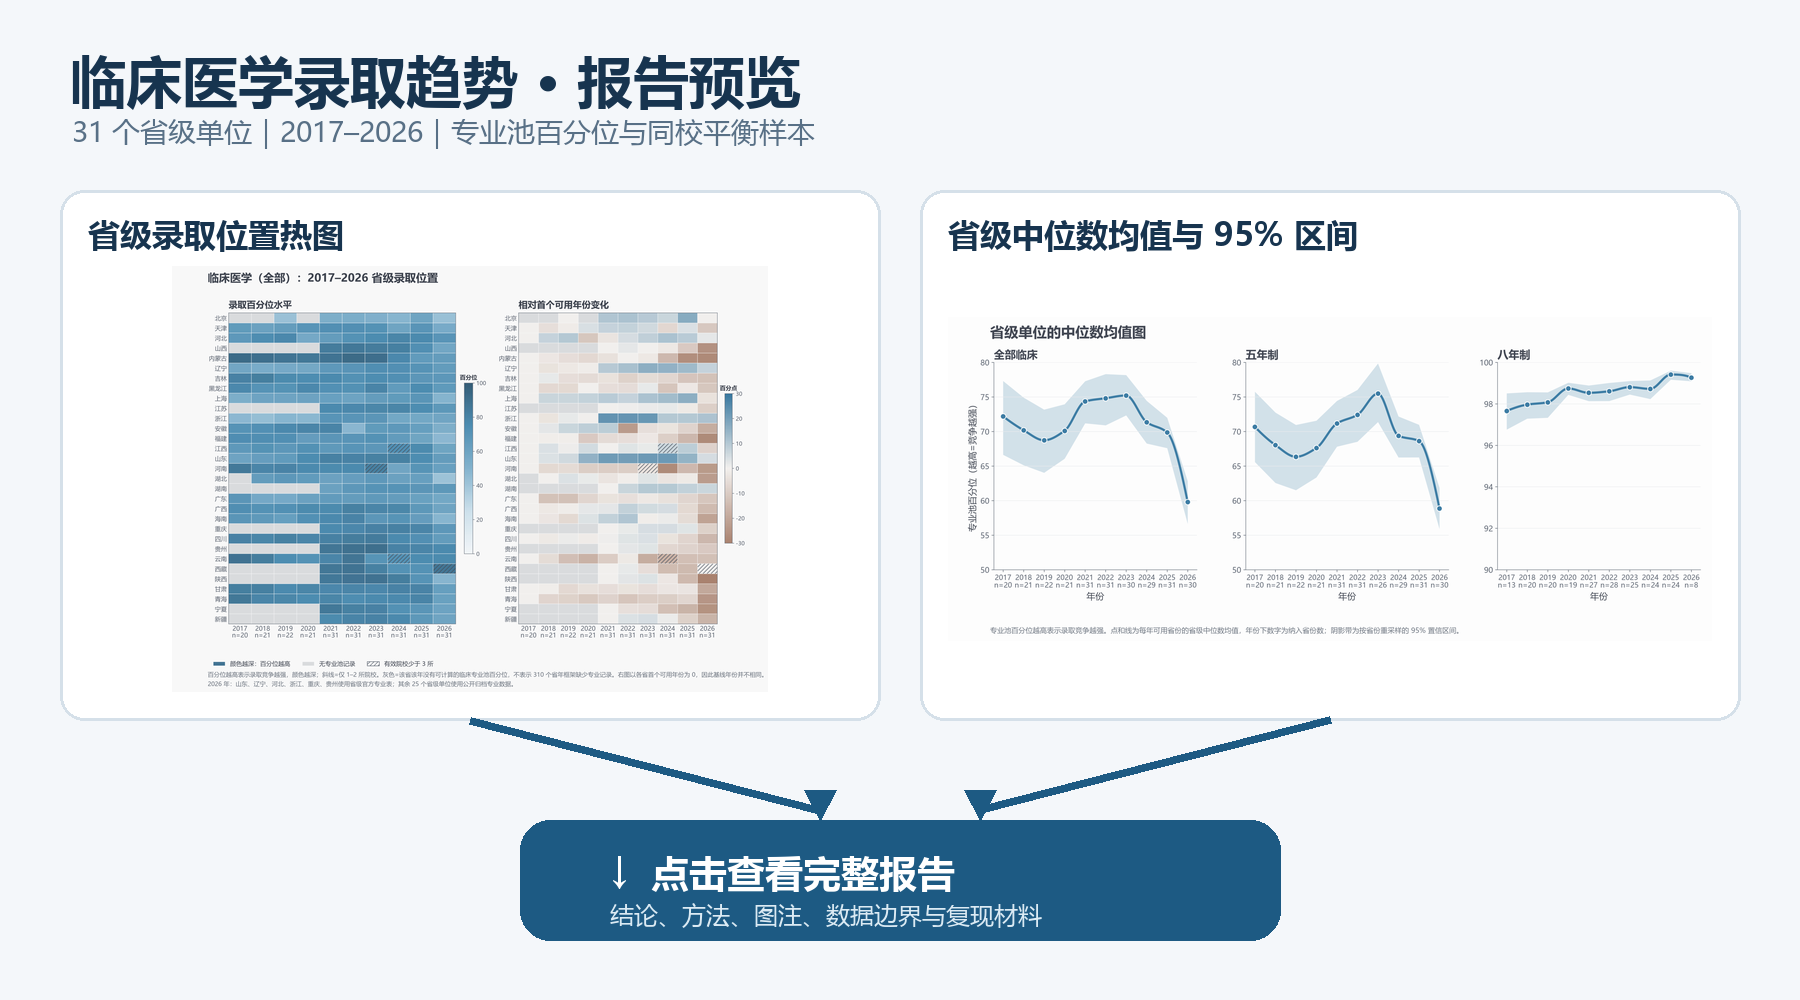
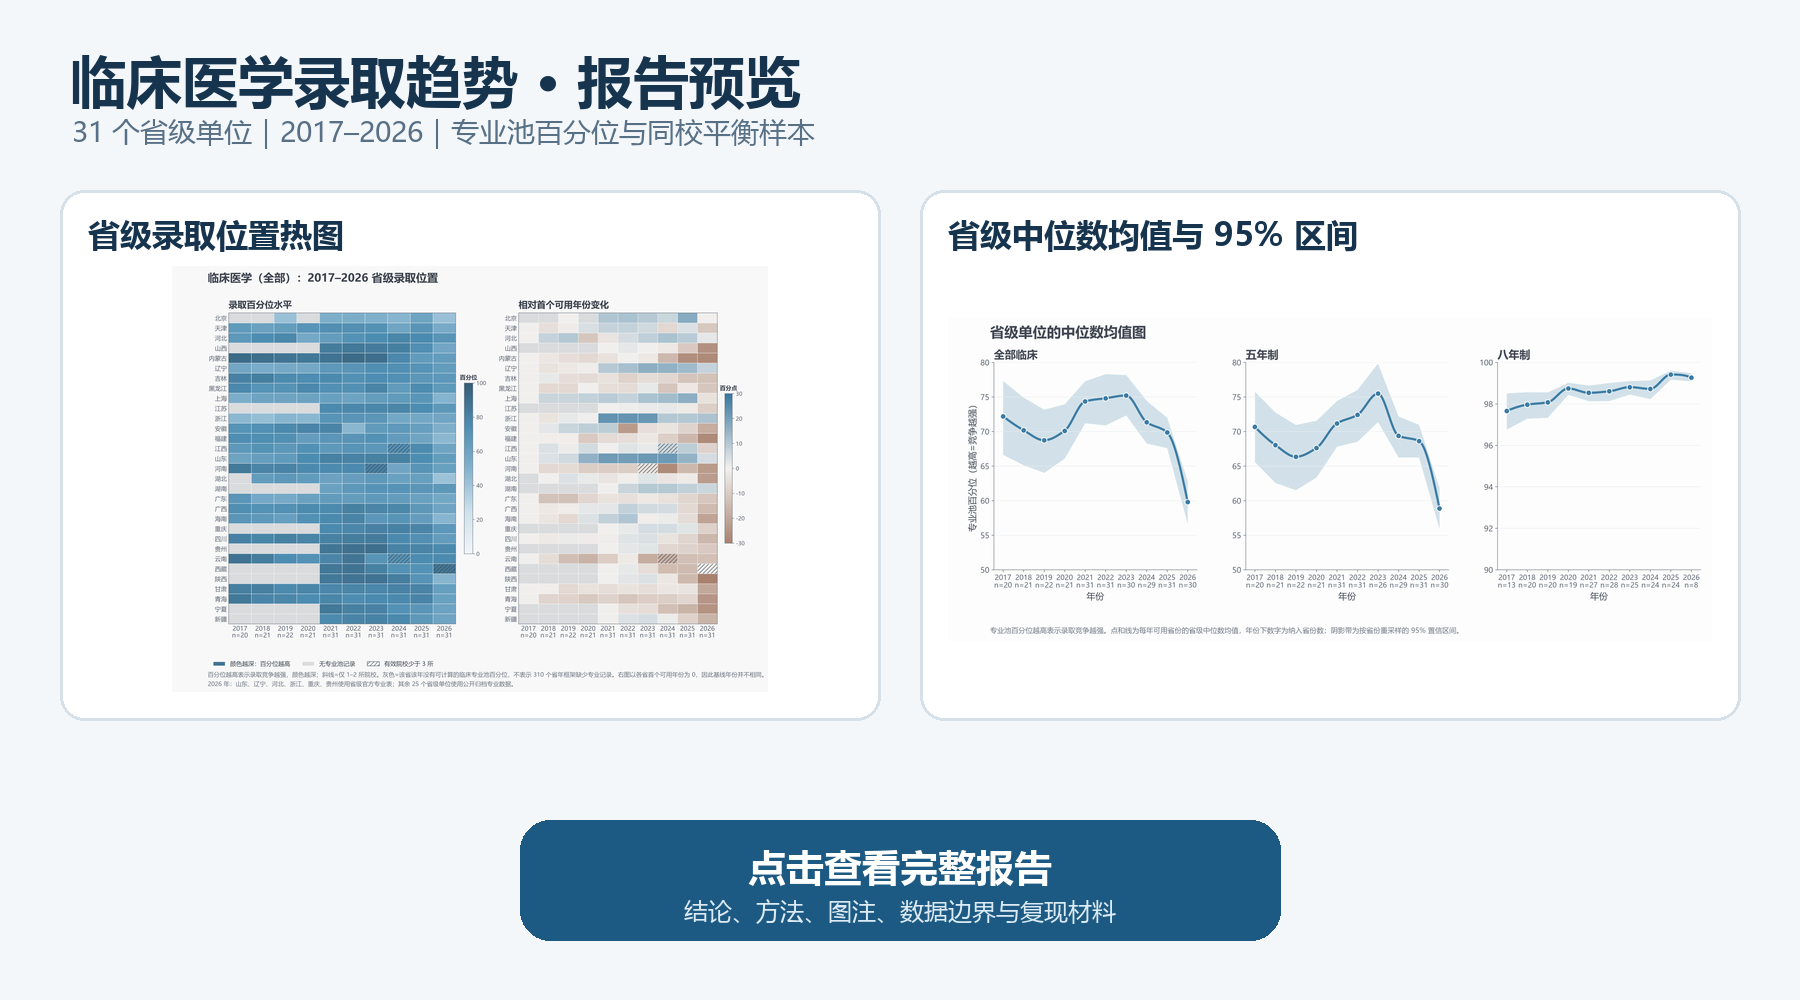
Refine README report preview

diff --git a/scripts/build_readme_preview.py b/scripts/build_readme_preview.py
@@ -54,22 +54,6 @@ def fit_image(image: Image.Image, size: tuple[int, int]) -> Image.Image:
     )
 
 
-def draw_arrow(
-    draw: ImageDraw.ImageDraw,
-    start: tuple[int, int],
-    end: tuple[int, int],
-    *,
-    color: str = ACCENT,
-    width: int = 8,
-) -> None:
-    draw.line((start, end), fill=color, width=width)
-    x, y = end
-    draw.polygon(
-        ((x, y + 10), (x - 16, y - 20), (x + 16, y - 20)),
-        fill=color,
-    )
-
-
 def main() -> None:
     canvas = Image.new("RGB", (WIDTH, HEIGHT), BACKGROUND)
     draw = ImageDraw.Draw(canvas)
@@ -109,22 +93,21 @@ def main() -> None:
         fitted = fit_image(image, (x1 - x0 - 56, y1 - y0 - 104))
         canvas.paste(fitted, (x0 + 28, y0 + 76))
 
-    draw_arrow(draw, (470, 720), (820, 810))
-    draw_arrow(draw, (1330, 720), (980, 810))
-
     callout = (520, 820, 1280, 940)
     draw.rounded_rectangle(callout, radius=30, fill=ACCENT)
     draw.text(
-        (610, 846),
-        "↓  点击查看完整报告",
+        (900, 865),
+        "点击查看完整报告",
         fill="white",
         font=callout_font,
+        anchor="mm",
     )
     draw.text(
-        (610, 898),
+        (900, 910),
         "结论、方法、图注、数据边界与复现材料",
         fill=ACCENT_LIGHT,
         font=callout_small_font,
+        anchor="mm",
     )
 
     OUTPUT.parent.mkdir(parents=True, exist_ok=True)
